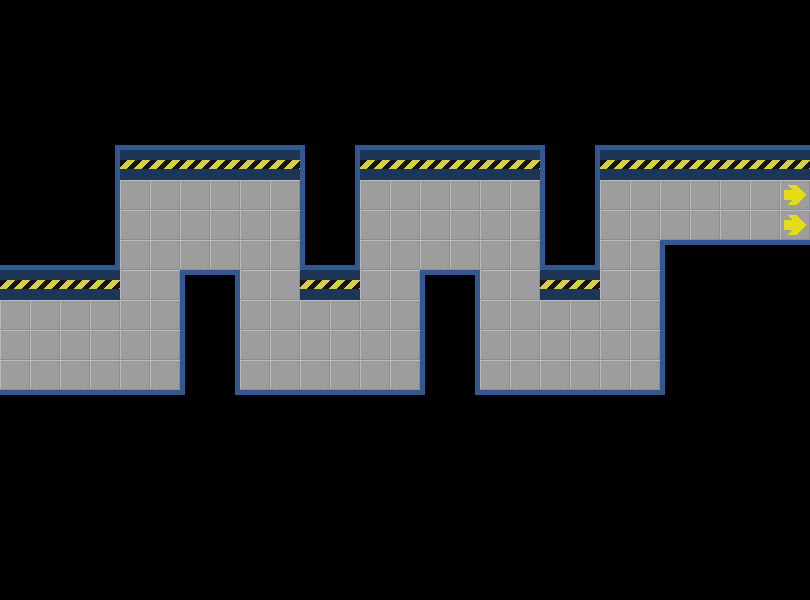
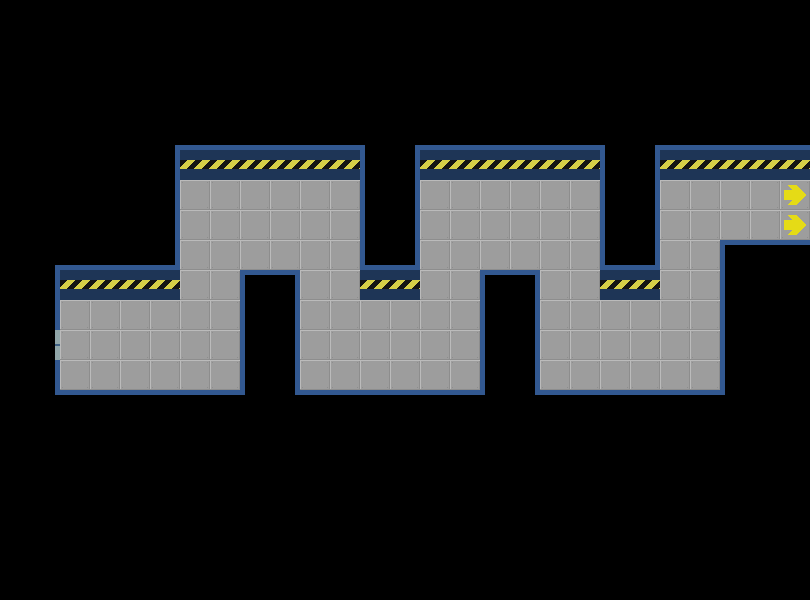
warmup map added to the beginning of the level. Zigzag map optimise to run while loop. SU map added with infrared detector. Millenium falcon art added

Changed region(s): [[0.1235, 0.24, 0.8951, 0.66], [0.0, 0.42, 0.0926, 0.66]]

diff --git a/starwarsV1.1.py b/starwarsV1.1.py
@@ -18,8 +18,10 @@ import ParserThread
 
 pygame.init()
 
-level = 0
-numOfLevels = 8
+level = 7
+numOfLevels = 9
+rebelScore = 0
+
 white = (255,255,255)
 black = (0,0,0)
 red = (255,0,0)
@@ -69,7 +71,8 @@ pygame.display.set_caption('Star Wars: A programming education game')
 
 wallpaper_img = 'wallpaper/Wallpaper.png'
 text_editor_img = 'pictures/right panel/Text editor.png'
-map_img = ['pictures/Map/Map_0.png','pictures/Map/Map_4.png','pictures/Map/Balcony_map.png',
+map_img = ['pictures/Map/warm_up.png',
+           'pictures/Map/Map_0.png','pictures/Map/Map_4.png','pictures/Map/Balcony_map.png',
            'pictures/Map/Map_1.png','pictures/Map/Map_2.png','pictures/Map/Map_3.png',
            'pictures/Map/Map_5.png','pictures/Map/docking_bay.png']
 
@@ -147,35 +150,36 @@ pressC = pygame.mixer.Sound("sounds/start.wav")
 wallbang = pygame.mixer.Sound("sounds/wallbang.ogg")
 
 def loadLevel(level):
-    position=[[180,180],[0,450],[30,270],[750,540],[360,30],[420,30],[0,330],[30,270]]
-    levelXList = [[0,180,360,180,360,600,360,450],[0,120,270,420,690,540,390,240,0],
-                  [],[0,30,780,0,420,180,510,180,300,420,510,30,180,510,630],[0,0,60,390],
+    position=[[360,570],[180,180],[0,450],[30,270],[750,540],[360,30],[420,30],[60,330],[30,270]]
+    levelXList = [[510,0,0],[0,180,360,180,360,600,360,450],[0,120,270,420,690,540,390,240,0],
+                  [0,0,0,30,780,780],[0,30,780,0,420,180,510,180,300,420,510,30,180,510,630],[0,0,60,390],
              [0,0,270,330,360,450,450,450,450,450,750],
-             [0,0,300,540,180,420,660,0],[]]
-    levelYList = [[0,0,120,450,390,0,240,0],[0,0,0,0,0,150,270,390,510],[],
+             [0,0,360,600,240,480,720,0,0],[0,0,0,30]]
+    levelYList = [[360,0,180],[0,0,120,450,390,0,240,0],[0,0,0,0,0,150,270,390,510],[0,30,300,570,30,300],
                   [0,570,0,0,0,480,480,30,30,60,60,210,180,180,210],
                   [0,90,270,0],
                   [0,90,120,120,240,0,120,270,420,540,60],
-                  [0,180,180,180,270,270,240,390],[]]
-    widthlist = [[180,240,60,630,450,210,240,150],
-                 [120,150,150,150,120,150,150,150,240],[],
+                  [0,180,180,180,270,270,240,390,300],[0,60,300,570]]
+    widthlist = [[300,810,270],[180,240,60,630,450,210,240,150],
+                 [120,150,150,150,120,150,150,150,240],[600,30,30,780,30,30],
                  [30,780,30,390,780,120,120,120,90,90,120,150,120,120,180],
                  [360,60,300,420],
                  [420,240,60,90,60,360,270,180,270,360,60],
-                 [810,120,60,60,60,60,150,810],[]]
-    heightlist=[[600,120,60,150,60,390,90,180],
-                [420,300,180,60,600,450,330,210,90],[],
+                 [810,180,60,60,60,60,90,810,60],[810,30,30,780]]
+    heightlist=[[240,180,420],[600,120,60,150,60,390,90,180],
+                [420,300,180,60,600,450,330,210,90],[60,240,270,30,240,270],
                 [600,30,570,60,60,90,90,120,90,60,90,120,210,210,120],
                 [90,510,330,600],
                 [90,390,360,90,360,90,90,90,90,60,480],
-                [180,120,120,120,120,120,150,210],[]]
-    win_width = [30,120,30,30,30,30,30,30]
-    win_height = [30,30,30,30,30,30,60,480]
-    win_xyCoordinates = [[420,0],[570,0],[780,270],[390,0],[360,570],
+                [180,120,120,120,120,120,150,210,90],[60,210,300,30]]
+    win_width = [30,30,120,30,30,30,30,30,30]
+    win_height = [240,30,30,30,30,30,30,60,480]
+    win_xyCoordinates = [[780,180],[420,0],[570,0],[780,270],[390,0],[360,570],
                          [420,570],[780,180],[780,60]]
-    holeCoords = [[[570,180],[570,210]],[],[[390,0],[390,30],[390,60],[390,90],[390,120],[390,150],[390,180],[390,210],[390,240],[390,270],[390,300],[390,330],[390,360]
-                                            ,[390,390],[390,420],[390,450],[390,480],[390,510],[390,540],[390,570]]
-                  ,[],[],[],[],[]]
+    holeCoords = [[],[[570,180],[570,210]],[],[[390,0],[390,30],[390,60],[390,90],[390,120],[390,150],[390,180],[390,210],[390,240],[390,270]
+                                               ,[390,300],[390,330],[390,360],[390,390],[390,420],[390,450],[390,480],[390,510],[390,540],[390,570]]
+                  ,[],[[260,150]],[],[],[[180,210],[180,240],[210,450],[210,480],[210,510],[360,270],[360,270],[360,270],[360,300],[360,330],[570,150],
+                                [570,180],[570,210],[510,390],[510,420]]]
     return [position[level][0],position[level][1],levelXList[level],levelYList[level],widthlist[level],heightlist[level],win_width[level],win_height[level], win_xyCoordinates[level][0],win_xyCoordinates[level][1],holeCoords[level]]
 
 def done_moving():
@@ -324,7 +328,7 @@ def rebel_move(direction, playerX, playerY, xChange, yChange, rebelScore, time_l
             pygame.draw.line(gameDisplay,black,(map_width,display_height),(map_width,0), 2)#draw boundary for user to type code
             pygame.draw.line(gameDisplay,black,(0,map_height),(map_width,map_height), 2)#draw boundary for status bar
             status(rebelScore, time_limit,seconds)
-            game_map=pygame.image.load(map_img[level]);
+            game_map=pygame.image.load(map_img[level])
             
             if blueprintCollected == False:
                 #barrier(xlocation, randomHeight, barrier_width)
@@ -379,7 +383,7 @@ def rebel_jump(direction, playerX, playerY, xChange, yChange, rebelScore, time_l
             pygame.draw.line(gameDisplay,black,(0,map_height),(map_width,map_height), 2)#draw boundary for status bar
             status(rebelScore, time_limit,seconds)
             #if level one
-            game_map=pygame.image.load(map_img[level]);
+            game_map=pygame.image.load(map_img[level])
 
             if blueprintCollected == False:
                 #barrier(xlocation, randomHeight, barrier_width)
@@ -419,7 +423,7 @@ def message_to_screen(msg,color, y_displace = 0, size = "small"):
 
 def gameLoop():
     global parsing, game_state, text_editor, elemNumber, level,txtbx, game_map, blueprintCollected, characterMove,numOfLevels
-    global lead_x, lead_y, lead_direction,holes
+    global lead_x, lead_y, lead_direction,holes, rebelScore
     gameWon = False
     gameExit = False
     gameOver = False
@@ -432,7 +436,6 @@ def gameLoop():
     
     lead_x_change = 0
     lead_y_change = 0
-    rebelScore = 0
     randBlueprintX, randBlueprintY = randBlueprintGen()
     step_count = 0
     pause_duration = 0
@@ -529,7 +532,7 @@ def gameLoop():
 ###################### WIN GAME CONDITIONS: Lands on the exit grid ###########################
         if 0 < (lead_y+(block_size/2)) and (lead_y+(block_size/2)) < win_ylocation+win_height and \
             win_xlocation < (lead_x+(block_size/2)) and (lead_x+(block_size/2)) < win_xlocation+win_width:
-            gameWon = True;
+            gameWon = True
 
 ###################### END GAME CONDITIONS: Out of bound detection, Timelimit ###########################
         if lead_x > map_width - block_size or lead_x < 0 or lead_y > map_height - block_size \
@@ -543,8 +546,8 @@ def gameLoop():
 
 ####################### displaying it on screen ################################
         gameDisplay.fill(white)
-        game_map=pygame.image.load(map_img[level]);
-        text_editor=pygame.image.load(text_editor_img);
+        game_map=pygame.image.load(map_img[level])
+        text_editor=pygame.image.load(text_editor_img)
         gameDisplay.blit(game_map, (0,0))
         gameDisplay.blit(text_editor, (map_width,0))
         pygame.draw.line(gameDisplay,black,(map_width,display_height),(map_width,0), 2) #draw boundary for user to type code
